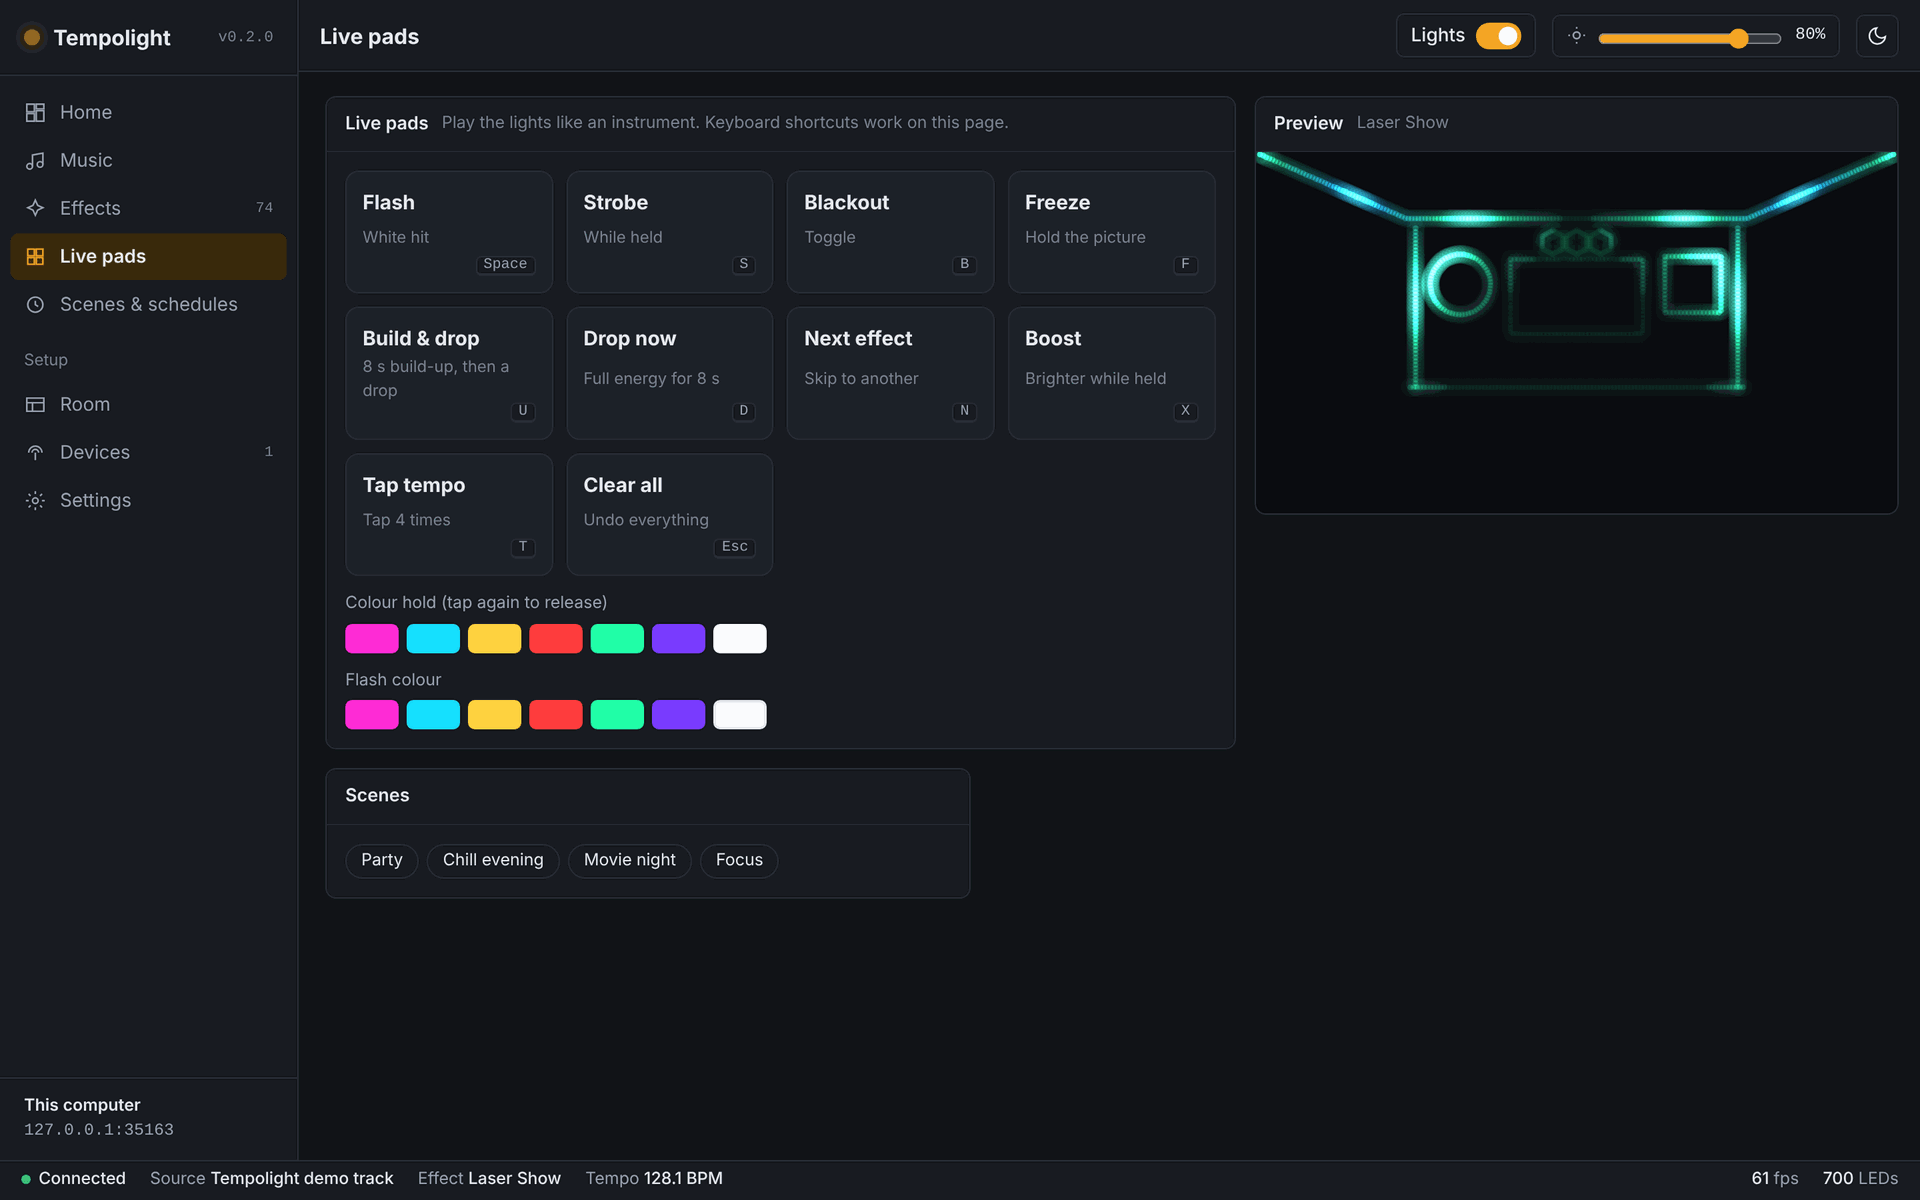
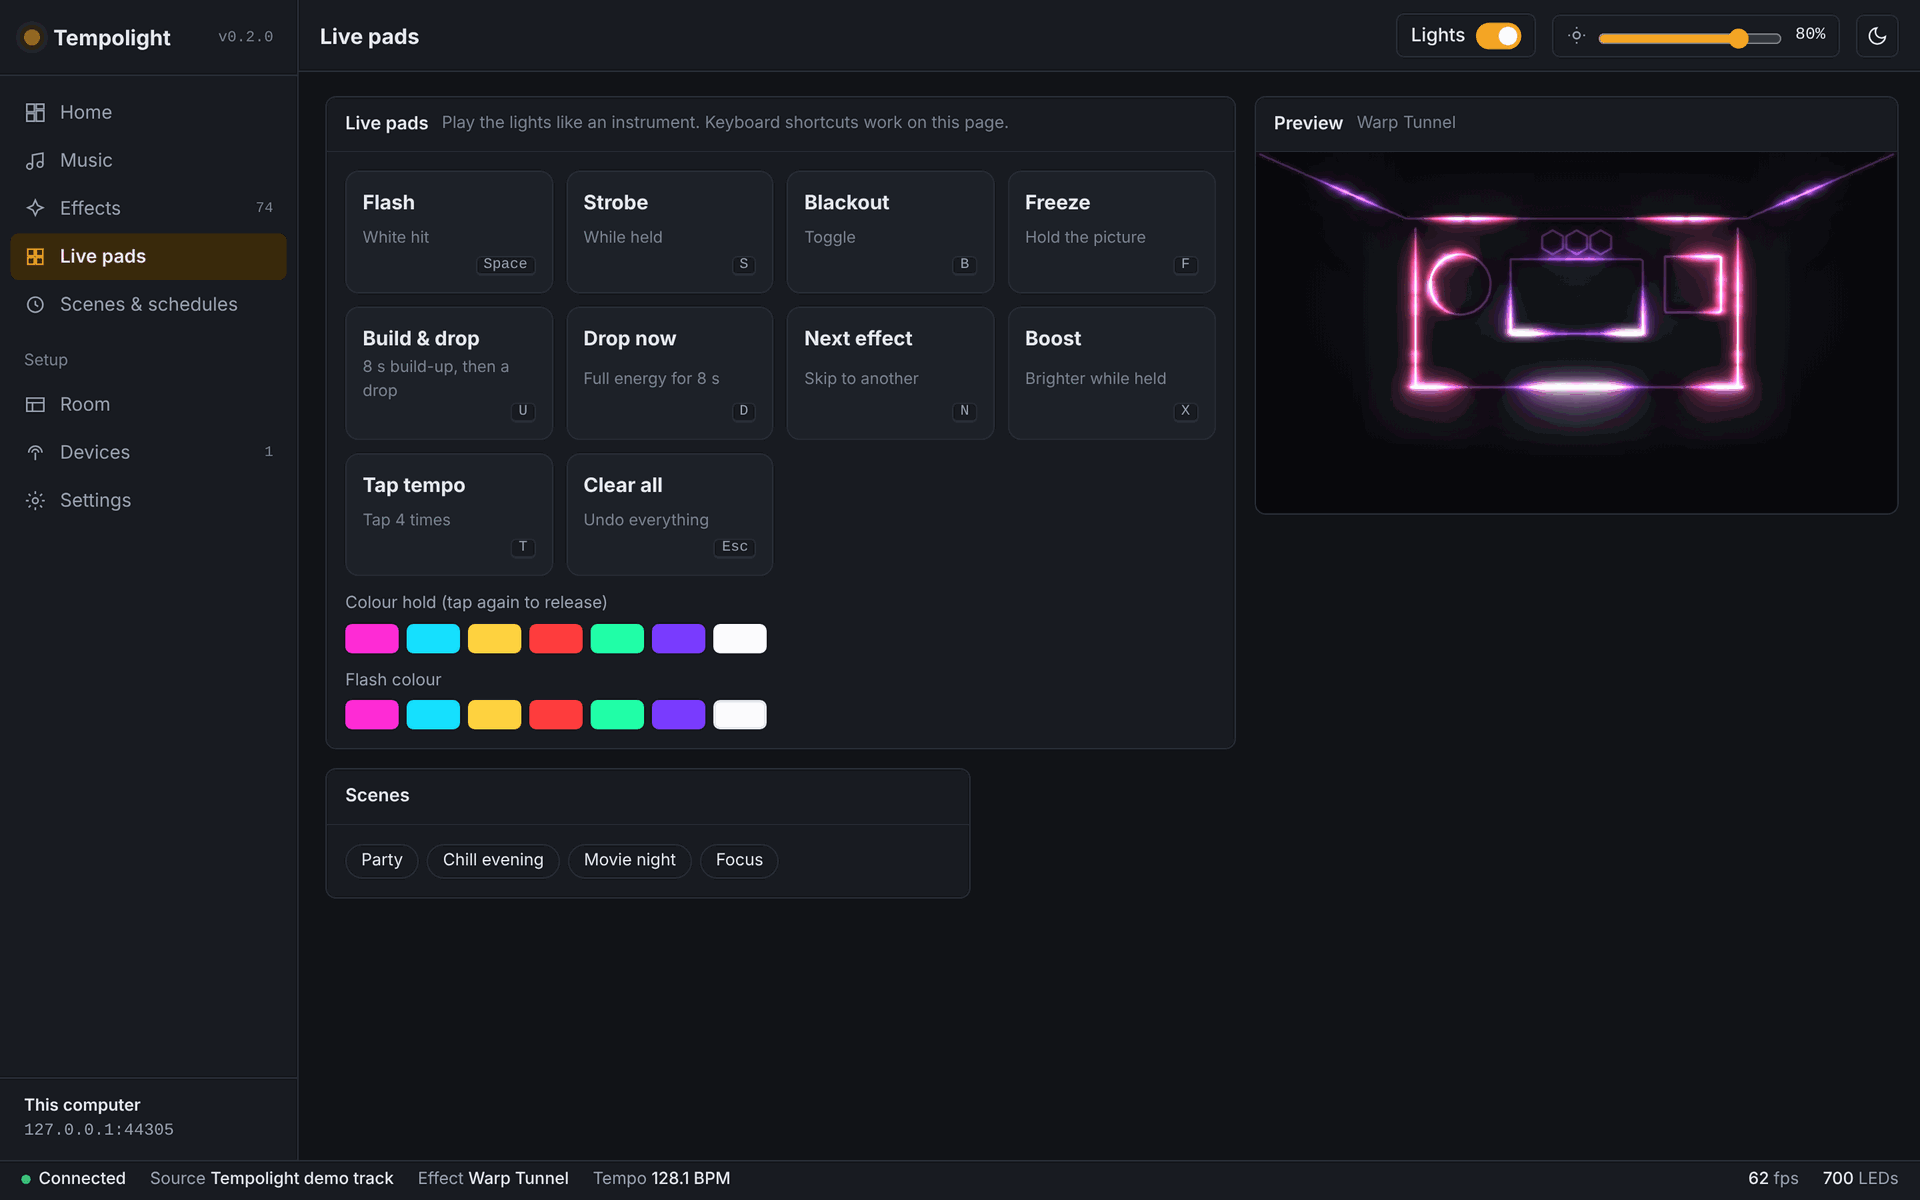
Realistic LED preview: continuous diffused strips, hot cores, bloom and wall light
- New apps/web/preview.js renderer: unlit strips as dark tape, lit strips as continuous
  lines that go towards white where they are brightest, a bloom pyramid for glow and wall
  light, gain that keeps a fully lit room from blowing out
- Draws only when a new frame arrives; segments batched by colour
- Home no longer rebuilds the page (and the preview) when the effect changes
- New virtual devices show online straight away
- Docker Desktop compose file; screenshots and GIF regenerated

Claude-Session: https://claude.ai/code/session_015dhxpaQ6ZmLqgmKPMpFQLc

diff --git a/apps/web/preview.js b/apps/web/preview.js
@@ -1,0 +1,105 @@
+// Room preview that looks like real LEDs in a dark room: diffused strips drawn as continuous lines with a hot,
+// nearly white core where they're bright, a tight bloom around them, and soft light spilling onto the wall.
+// Unlit strips stay visible as dark tape, like in a real room. The glow is a bloom pyramid (halve, then add back up),
+// which blurs smoothly for almost no cost, even on phones.
+
+export function createRenderer(cv) {
+  const ctx = cv.getContext("2d");
+  const low = document.createElement("canvas"), lctx = low.getContext("2d");      // LED colours at 1/4 size
+  let pyr = [];                                                                    // 1/8, 1/16, 1/32, 1/64 size copies for the blur
+  function levels(w, h) {
+    if (pyr.length && pyr[0].src === w) return pyr;
+    pyr = []; for (let k = 1; k <= 4; k++) { const cv2 = document.createElement("canvas"); cv2.width = Math.max(1, w >> k); cv2.height = Math.max(1, h >> k);
+      const c = cv2.getContext("2d"); c.imageSmoothingEnabled = true; pyr.push({ cv: cv2, c, w: cv2.width, h: cv2.height, src: w }); }
+    return pyr;
+  }
+  const glowC = document.createElement("canvas"), gctx = glowC.getContext("2d");  // all the glow, combined at 1/4 size
+  let segCache = { L: null, segs: null, dots: null }, W = 0, H = 0;
+
+  // which neighbouring LEDs are joined into one continuous strip
+  function segments(L) {
+    if (segCache.L === L) return segCache;
+    const segs = [], dots = [], shapes = L.shapes || [];
+    const byShape = new Map(); for (let i = 0; i < L.N; i++) { const s = L.shape[i]; if (!byShape.has(s)) byShape.set(s, []); byShape.get(s).push(i); }
+    for (const [s, idx] of byShape) {
+      if ((shapes[s]?.type) === "matrix") { dots.push(...idx); continue; }
+      const d = []; for (let k = 1; k < idx.length; k++) d.push(Math.hypot(L.x[idx[k]] - L.x[idx[k - 1]], L.y[idx[k]] - L.y[idx[k - 1]]));
+      const med = d.length ? d.slice().sort((a, b) => a - b)[d.length >> 1] : 0.1, thr = Math.max(0.05, med * 3);
+      for (let k = 1; k < idx.length; k++) if (d[k - 1] < thr) segs.push(idx[k - 1], idx[k]);
+      if (idx.length > 3) { const a = idx[0], b = idx[idx.length - 1]; if (Math.hypot(L.x[a] - L.x[b], L.y[a] - L.y[b]) < thr) segs.push(b, a); }
+      if (idx.length === 1) dots.push(idx[0]);
+    }
+    segCache = { L, segs, dots }; return segCache;
+  }
+
+  /**
+   * @param {{N:number,x:ArrayLike<number>,y:ArrayLike<number>,shape:ArrayLike<number>,shapes?:any[]}} L layout (stage units 16 x 9)
+   * @param {Uint8Array|null} f RGB bytes per LED, or null when nothing is streaming
+   * @param {number} dpr
+   */
+  function draw(L, f, dpr, { selected = -1 } = {}) {
+    if (cv.width !== W || cv.height !== H) { W = cv.width; H = cv.height; low.width = glowC.width = Math.max(1, W >> 2); low.height = glowC.height = Math.max(1, H >> 2); }
+    ctx.globalCompositeOperation = "source-over"; ctx.globalAlpha = 1; ctx.clearRect(0, 0, W, H); // the dark wall is the stage's CSS background
+    if (!L || !L.N) return;
+    const live = f && f.length === L.N * 3, sx = W / 16, sy = H / 9, { segs, dots } = segments(L);
+    const lw = Math.max(2, Math.min(W / 300, 4.5 * dpr)), col = i => live ? [f[i * 3], f[i * 3 + 1], f[i * 3 + 2]] : [0, 0, 0];
+
+    // 1. the strips themselves, unlit: dark tape on the wall
+    ctx.lineCap = "round"; ctx.lineWidth = lw; ctx.strokeStyle = "#1b1e25"; ctx.beginPath();
+    for (let k = 0; k < segs.length; k += 2) { const a = segs[k], b = segs[k + 1]; ctx.moveTo(L.x[a] * sx, L.y[a] * sy); ctx.lineTo(L.x[b] * sx, L.y[b] * sy); }
+    ctx.stroke();
+    for (const i of dots) { ctx.fillStyle = "#1b1e25"; ctx.fillRect(L.x[i] * sx - lw, L.y[i] * sy - lw, lw * 2, lw * 2); }
+    if (!live) return;
+
+    // 2. light at 1/4 size, then blurred twice: a tight bloom and a wide spill onto the wall
+    const lx = low.width / 16, ly = low.height / 9;
+    lctx.globalCompositeOperation = "source-over"; lctx.clearRect(0, 0, low.width, low.height);
+    lctx.globalCompositeOperation = "lighter"; lctx.lineCap = "round"; lctx.lineWidth = Math.max(1.5, lw * 0.6);
+    // segments are grouped by (rounded) colour, so a frame is a few hundred strokes instead of thousands
+    const groups = new Map(), hotGroups = new Map(), lowGroups = new Map(), key = (r, g, b) => ((r >> 3) << 10) | ((g >> 3) << 5) | (b >> 3);
+    const push = (m, k, k4) => { let a = m.get(k); if (!a) m.set(k, a = []); a.push(k4); };
+    let lit = 0;
+    for (let k = 0; k < segs.length; k += 2) { const a = segs[k], b = segs[k + 1];
+      const r = (f[a * 3] + f[b * 3]) >> 1, g = (f[a * 3 + 1] + f[b * 3 + 1]) >> 1, bl = (f[a * 3 + 2] + f[b * 3 + 2]) >> 1, m = Math.max(r, g, bl);
+      lit += m;
+      if (m < 6) continue;
+      push(lowGroups, key(r, g, bl), k);
+      if (m < 10) continue;
+      const w = Math.pow(m / 255, 2.2) * 0.6, lift = v => Math.min(255, Math.round(v * 1.6 + (255 - v) * w));
+      push(groups, key(lift(r), lift(g), lift(bl)), k);
+      if (m > 150) { const w2 = Math.min(0.85, w * 1.6), hot = v => Math.min(255, Math.round(v + (255 - v) * w2)); push(hotGroups, key(hot(r), hot(g), hot(bl)), k); }
+    }
+    lit = segs.length ? lit / (segs.length / 2) / 255 : 0; // 0 = dark room, 1 = every LED at full
+    const rgbOf = k => `rgb(${((k >> 10) & 31) * 8 + 4},${((k >> 5) & 31) * 8 + 4},${(k & 31) * 8 + 4})`;
+    const strokeGroups = (c, m, scx, scy) => { for (const [k, list] of m) { c.strokeStyle = rgbOf(k); c.beginPath();
+      for (const q of list) { const a = segs[q], b = segs[q + 1]; c.moveTo(L.x[a] * scx, L.y[a] * scy); c.lineTo(L.x[b] * scx, L.y[b] * scy); } c.stroke(); } };
+    strokeGroups(lctx, lowGroups, lx, ly);
+    for (const i of dots) { const c = col(i); if (Math.max(...c) < 6) continue; lctx.fillStyle = `rgb(${c[0]},${c[1]},${c[2]})`; lctx.fillRect(L.x[i] * lx - 1, L.y[i] * ly - 1, 2, 2); }
+
+    // bloom pyramid, as in game engines: halve the light 4 times (each halving averages 2 x 2 pixels, so it stays smooth),
+    // then add the levels back up one doubling at a time. The small levels become the light thrown on the wall.
+    const lv = levels(low.width, low.height); let src = low;
+    for (const l of lv) { l.c.globalCompositeOperation = "source-over"; l.c.globalAlpha = 1; l.c.clearRect(0, 0, l.w, l.h); l.c.drawImage(src, 0, 0, l.w, l.h); src = l.cv; }
+    for (let k = lv.length - 1; k > 0; k--) { const up = lv[k - 1]; up.c.globalCompositeOperation = "lighter"; up.c.globalAlpha = 0.6; up.c.drawImage(lv[k].cv, 0, 0, up.w, up.h); }
+    const gw = glowC.width, gh = glowC.height; gctx.globalCompositeOperation = "source-over"; gctx.globalAlpha = 1; gctx.clearRect(0, 0, gw, gh);
+    // how much of the light is lit decides the gain: a few lit LEDs glow strongly, a fully lit room doesn't blow out to white
+    const gain = Math.max(0.55, Math.min(1.8, 1.8 - lit * 1.6));
+    gctx.globalCompositeOperation = "lighter"; gctx.globalAlpha = Math.min(1, gain); gctx.drawImage(lv[0].cv, 0, 0, gw, gh);   // bloom and wall light
+    if (gain > 1) { gctx.globalAlpha = gain - 1; gctx.drawImage(lv[0].cv, 0, 0, gw, gh); }
+    gctx.globalAlpha = 0.35 * gain; gctx.drawImage(lv[3].cv, 0, 0, gw, gh);                                                      // wide light on the wall
+    gctx.globalAlpha = 0.35; gctx.drawImage(low, 0, 0);                                                                          // halo hugging the strip
+    ctx.globalCompositeOperation = "lighter"; ctx.imageSmoothingEnabled = true; ctx.globalAlpha = 1; ctx.drawImage(glowC, 0, 0, W, H); // one full-size step
+
+    // 3. the diffused strip: a continuous coloured line, going towards white where it's brightest (like a camera sees it)
+    ctx.globalCompositeOperation = "lighter"; ctx.lineWidth = lw; ctx.lineCap = "butt"; // butt ends: neighbouring segments don't double up into beads
+    strokeGroups(ctx, groups, sx, sy);
+    ctx.lineWidth = lw * 0.4; strokeGroups(ctx, hotGroups, sx, sy);   // the hot centre a camera sees on bright LEDs
+    for (const i of dots) { const c = col(i), m = Math.max(...c); if (m < 6) continue; const w = Math.pow(m / 255, 2.2) * 0.6, lift = v => Math.min(255, Math.round(v * 1.6 + (255 - v) * w));
+      ctx.fillStyle = `rgb(${lift(c[0])},${lift(c[1])},${lift(c[2])})`; ctx.beginPath(); ctx.arc(L.x[i] * sx, L.y[i] * sy, lw * 0.9, 0, 6.283); ctx.fill(); }
+
+    if (selected >= 0) { ctx.strokeStyle = "#f5a524"; ctx.lineWidth = 1.2 * dpr; ctx.setLineDash([4 * dpr, 4 * dpr]);
+      let x0 = 1e9, y0 = 1e9, x1 = -1e9, y1 = -1e9; for (let i = 0; i < L.N; i++) if (L.shape[i] === selected) { x0 = Math.min(x0, L.x[i]); y0 = Math.min(y0, L.y[i]); x1 = Math.max(x1, L.x[i]); y1 = Math.max(y1, L.y[i]); }
+      if (x1 >= x0) { const p = 0.18; ctx.strokeRect((x0 - p) * sx, (y0 - p) * sy, (x1 - x0 + 2 * p) * sx, (y1 - y0 + 2 * p) * sy); } ctx.setLineDash([]); }
+  }
+  return { draw };
+}

diff --git a/apps/web/app.js b/apps/web/app.js
@@ -2,6 +2,7 @@
 // live status the server sends 4 times a second.
 import { createAudio } from "/audio.js";
 import { roomPage } from "/room.js";
+import { createRenderer } from "/preview.js";
 
 export const $ = (s, r = document) => r.querySelector(s);
 export const $$ = (s, r = document) => [...r.querySelectorAll(s)];
@@ -65,26 +66,14 @@ function chrome() {
 
 // ---------------------------------------------------------------- preview canvas: what the LEDs are showing right now
 export function createPreview(stage, { outlines = false, selected = () => -1, layout = () => app.layout, colors = null } = {}) {
-  const cv = document.createElement("canvas"); stage.appendChild(cv); const ctx = cv.getContext("2d");
-  let raf = 0, alive = true;
+  const cv = document.createElement("canvas"); stage.appendChild(cv); const R = createRenderer(cv);
+  let raf = 0, alive = true, last = [];
   function draw() {
     if (!alive) return; raf = requestAnimationFrame(draw);
-    const L = layout(), r = stage.getBoundingClientRect(), dpr = Math.min(2, devicePixelRatio || 1);
-    if (cv.width !== Math.round(r.width * dpr)) { cv.width = Math.round(r.width * dpr); cv.height = Math.round(r.height * dpr); }
-    const W = cv.width, H = cv.height, sx = W / 16, sy = H / 9;
-    ctx.globalCompositeOperation = "source-over"; ctx.fillStyle = "#0b0c10"; ctx.fillRect(0, 0, W, H);
-    if (!L || !L.N) return;
-    const f = colors ? colors() : app.frame, live = f && f.length === L.N * 3, rad = Math.max(1.5, Math.min(W / 220, 4.5 * dpr));
-    ctx.globalCompositeOperation = "lighter";
-    for (let i = 0; i < L.N; i++) {
-      const x = L.x[i] * sx, y = L.y[i] * sy; let rr = 40, g = 40, b = 48;
-      if (live) { rr = f[i * 3]; g = f[i * 3 + 1]; b = f[i * 3 + 2]; }
-      const m = Math.max(rr, g, b); if (m < 4) { ctx.fillStyle = "rgba(255,255,255,0.06)"; ctx.fillRect(x - 1, y - 1, 2, 2); continue; }
-      ctx.fillStyle = `rgba(${rr},${g},${b},0.16)`; ctx.beginPath(); ctx.arc(x, y, rad * 3.2, 0, 6.283); ctx.fill();
-      ctx.fillStyle = `rgb(${rr},${g},${b})`; ctx.beginPath(); ctx.arc(x, y, rad, 0, 6.283); ctx.fill();
-    }
-    if (outlines && selected() >= 0) { ctx.globalCompositeOperation = "source-over"; ctx.strokeStyle = "#f5a524"; ctx.lineWidth = 1.5 * dpr;
-      for (let i = 0; i < L.N; i++) if (L.shape[i] === selected()) { ctx.strokeRect(L.x[i] * sx - rad - 1, L.y[i] * sy - rad - 1, (rad + 1) * 2, (rad + 1) * 2); } }
+    const r = stage.getBoundingClientRect(), dpr = Math.min(2, devicePixelRatio || 1), L = layout(), f = colors ? colors() : app.frame, sel = outlines ? selected() : -1;
+    if (cv.width !== Math.round(r.width * dpr)) { cv.width = Math.round(r.width * dpr); cv.height = Math.round(r.height * dpr); last = []; }
+    if (last[0] === L && last[1] === f && last[2] === sel) return; // only redraw when a new frame arrives (30 a second)
+    last = [L, f, sel]; R.draw(L, f, dpr, { selected: sel });
   }
   draw(); ws.send({ type: "preview", on: true });
   return { canvas: cv, destroy() { alive = false; cancelAnimationFrame(raf); } };
@@ -174,7 +163,11 @@ function homePage(el) {
         return `<tr><td>${esc(d.name)}</td><td class="mono">${esc(d.virtual ? "virtual" : d.host)}</td><td class="num">${d.leds || "?"}</td><td>${!d.enabled ? '<span class="badge">Off</span>' : h.online ? '<span class="badge live"><i></i>Online</span>' : h.online === false ? '<span class="badge err"><i></i>Offline</span>' : '<span class="badge">Checking</span>'}</td></tr>`; }).join("") || '<tr><td colspan="4" class="faint">No devices</td></tr>';
     },
     onLog(e) { const l = $("#h-log"); if (l) l.insertAdjacentHTML("afterbegin", logRow(e)); },
-    onChanged(w) { if (w.has("devices") || w.has("show") || w.has("scenes") || w.has("all")) route(); },
+    onChanged(w) {
+      if (w.has("devices") || w.has("scenes") || w.has("room") || w.has("all")) return route();
+      if (w.has("show")) { const sh = app.state.show; // update the controls in place, so the preview doesn't blink
+        for (const [id, v] of [["#h-mode", sh.mode], ["#h-effect", sh.effect], ["#h-styl", sh.style], ["#h-pal", sh.palette]]) { const e = $(id); if (e && document.activeElement !== e) e.value = v; } }
+    },
     destroy() { prev && prev.destroy(); },
   };
 }

diff --git a/scripts/screenshots.js b/scripts/screenshots.js
@@ -28,14 +28,17 @@ async function shoot(theme, viewport, pages) {
   await page.goto(`${base}/#/music`); await page.waitForSelector("#m-demo");
   await page.click("#m-demo");
   for (let i = 0; i < 300 && app.runtime.status().source !== "song"; i++) await sleep(100);
-  await page.evaluate(() => { const a = window.__seek; });
-  for (const [hash, name, wait = 2500] of pages) {
-    await page.goto(`${base}/#/${hash}`); await page.waitForSelector("#page .panel"); await sleep(wait);
+  // jump into the first drop, so the pictures show the lights at full energy
+  const st = app.runtime.status(), at = (st.song.drops[0] + 3) / st.song.dur;
+  await page.waitForSelector("#m-prog"); const box = await page.locator("#m-prog").boundingBox();
+  await page.mouse.click(box.x + box.width * at, box.y + box.height / 2);
+  for (const [hash, name, wait = 1500] of pages) {
+    await page.evaluate(h => { location.hash = "#/" + h; }, hash); await page.waitForSelector("#page .panel"); await sleep(wait); // hash change keeps the song playing
     await page.screenshot({ path: path.join(out, `${name}.png`) }); console.log("docs/images/" + name + ".png");
   }
   await ctx.close();
 }
-await shoot("dark", { width: 1440, height: 900 }, [["home", "home-dark", 9000], ["music", "music"], ["effects", "effects"], ["live", "live-pads"], ["room", "room"], ["scenes", "scenes"], ["devices", "devices"], ["settings", "settings"]]);
-await shoot("light", { width: 1440, height: 900 }, [["home", "home-light", 9000]]);
-await shoot("dark", { width: 390, height: 844 }, [["home", "phone-home", 6000], ["live", "phone-pads"]]);
+await shoot("dark", { width: 1440, height: 900 }, [["home", "home-dark", 1200], ["music", "music"], ["effects", "effects"], ["live", "live-pads"], ["room", "room"], ["scenes", "scenes"], ["devices", "devices"], ["settings", "settings"]]);
+await shoot("light", { width: 1440, height: 900 }, [["home", "home-light", 1200]]);
+await shoot("dark", { width: 390, height: 844 }, [["home", "phone-home", 1200], ["live", "phone-pads"]]);
 await browser.close(); await app.close(); rmSync(dataDir, { recursive: true, force: true });

diff --git a/apps/web/style.css b/apps/web/style.css
@@ -83,7 +83,7 @@ a { color: var(--accent); }
 .row { display: flex; gap: 8px; align-items: center; flex-wrap: wrap; }
 .span-8 { grid-column: span 8; } .span-4 { grid-column: span 4; } .span-12 { grid-column: span 12; } .span-7 { grid-column: span 7; } .span-5 { grid-column: span 5; } .span-6 { grid-column: span 6; }
 
-.stage { position: relative; aspect-ratio: 16 / 9; background: var(--stage); border-radius: 0 0 8px 8px; overflow: hidden; touch-action: none; }
+.stage { position: relative; aspect-ratio: 16 / 9; background: radial-gradient(ellipse 75% 70% at 50% 42%, #14161c 0%, #08090c 70%, #050608 100%); border-radius: 0 0 8px 8px; overflow: hidden; touch-action: none; }
 .stage canvas { position: absolute; inset: 0; width: 100%; height: 100%; }
 .stage .empty { position: absolute; inset: 0; display: grid; place-items: center; color: #8a93a3; text-align: center; padding: 20px; }
 .badge { display: inline-flex; align-items: center; gap: 6px; font-size: 12px; font-weight: 500; padding: 2px 8px; border-radius: 999px; background: var(--panel-2); border: 1px solid var(--line); color: var(--muted); white-space: nowrap; }

diff --git a/packages/server/src/app.js b/packages/server/src/app.js
@@ -78,7 +78,7 @@ export async function createApp(opts) {
     if (virtual) { // a pretend controller: shows in the preview, sends nothing. For trying the app without hardware.
       const dev = { id: newId("d"), name: String(name || "Virtual room").slice(0, 60), host: "virtual", ddpPort: 4048, leds: Number(leds) || 600, enabled: true, virtual: true };
       data().devices.push(dev); if (!data().room.shapes.length) data().room.shapes = buildPreset("living", [dev]); else autoPlace(dev);
-      runtime.rebuild(); runtime.note(`Added ${dev.name} (virtual, ${dev.leds} LEDs)`); changed("devices"); return dev;
+      runtime.rebuild(); runtime.checkDevice(dev); runtime.note(`Added ${dev.name} (virtual, ${dev.leds} LEDs)`); changed("devices"); return dev;
     }
     host = String(host || "").trim().replace(/^https?:\/\//, "").replace(/\/.*$/, "");
     if (!host) throw new HttpError(400, "Enter the controller's IP address, for example 192.168.1.42");

diff --git a/CHANGELOG.md b/CHANGELOG.md
@@ -6,6 +6,7 @@ versions follow [Semantic Versioning](https://semver.org/).
 ## [0.2.0] - 2026-11-04
 
 ### Added
+- Realistic room preview: strips drawn as continuous diffused light with hot cores, bloom and light spilling onto the wall; redraws only when a new frame arrives.
 - Web app with Home, Music, Effects, Live pads, Scenes & schedules, Room, Devices and Settings pages; light and dark themes; phone layout.
 - Live listening: this computer's sound or a microphone from the browser, or a sound card on the server (PulseAudio, ALSA, ffmpeg).
 - Songs analysed in the browser before they play, with transport controls and drop markers.
